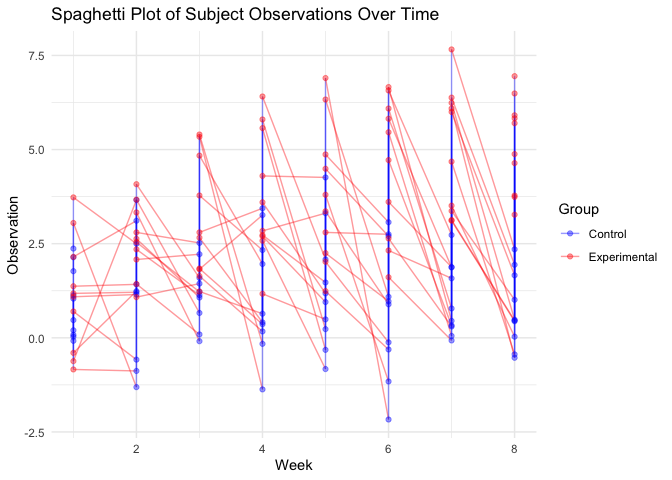
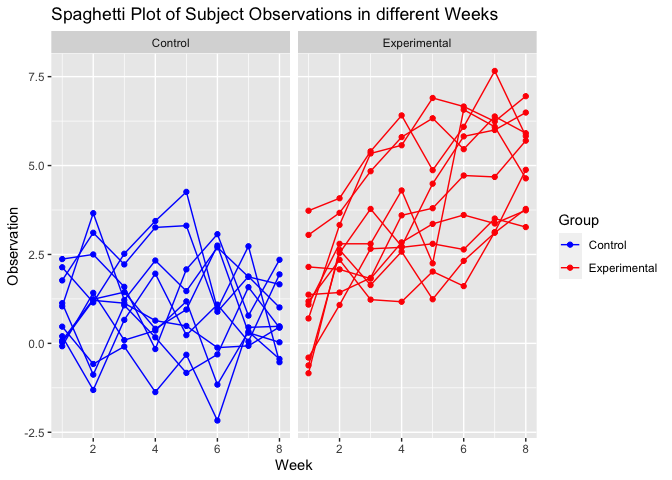
finished problem 3's graphs

diff --git a/p8105_hw5_qw2418.md b/p8105_hw5_qw2418.md
@@ -105,11 +105,11 @@ head(combined_data)
 
 ``` r
 ## Draw the spaghetti plot
-ggplot(combined_data, aes(x = Week, y = Observation, group = `Subject ID`)) +
-  geom_line(aes(color = Arm), alpha = 0.4) +  # Add transparency to lines
-  geom_point(aes(color = Arm), alpha = 0.4) +
-  theme_minimal() +
-  labs(title = "Spaghetti Plot of Subject Observations Over Time",
+ggplot(combined_data, aes(x = Week, y = Observation, group = `Subject ID`, color = Arm)) +
+  geom_line() +
+  geom_point() +
+  facet_wrap(~ Arm, nrow = 1) + 
+  labs(title = "Spaghetti Plot of Subject Observations in different Weeks",
        x = "Week",
        y = "Observation",
        color = "Group") +
@@ -131,11 +131,10 @@ using α=0.05. Hint: to obtain the estimate and p-value, use broom::tidy
 to clean the output of t.test.
 
 ``` r
-set.seed(123)
 n <- 30
-sigma <- 5000
+sigma <- 5
 mu <- c(0, 1, 2, 3, 4, 5, 6)
-iteration <- 5
+iteration <- 5000
 alpha <- 0.05
 
 
@@ -154,7 +153,7 @@ stat_test <- function(n, sigma, mu, iteration, alpha){
     mu_hat_list <- c(mu_hat_list, mu_hat)
     
     # store the rej_est_list with all the estimates that are rejected
-    if (mu_hat < alpha ){
+    if (pvalue < alpha ){
       rej_est <- clean$estimate
       rej_est_list <- c(rej_est_list, rej_est)
     }
@@ -162,12 +161,9 @@ stat_test <- function(n, sigma, mu, iteration, alpha){
   }
   power <- mean(pval_list < alpha)
   mean_estimate <- mean(mu_hat_list)
-  if (length(rej_est_list) > 0){
-    mean_est_rej <- mean(rej_est_list)
-    # If nothing is rejected, the Value should be defined
-  } else{
-    mean_est_rej <- NA
-  }
+  mean_est_rej <- mean(rej_est_list)
+
+
   
   return(c(power, mean_estimate, mean_est_rej))
 }
@@ -188,16 +184,62 @@ for (i in mu){
 power
 ```
 
-    ## [1] 0.0 0.2 0.0 0.0 0.0 0.0 0.0
+    ## [1] 0.0508 0.1932 0.5470 0.8884 0.9886 0.9994 1.0000
 
 ``` r
 mean_estimate
 ```
 
-    ## [1] -121.8144  467.2284 -228.0841  324.1776 -140.8335  315.8972  227.5181
+    ## [1] -0.003775532  1.015164084  1.954656859  2.998345525  4.031908410
+    ## [6]  5.018154718  6.015448294
 
 ``` r
 mean_est_rej
 ```
 
-    ## [1]  -540.9551  -447.2489  -909.3908  -953.5804  -880.4306 -1459.5199  -868.5539
+    ## [1] -0.2860503  2.2646871  2.5857994  3.1877964  4.0587429  5.0201287  6.0154483
+
+Make a plot showing the proportion of times the null was rejected (the
+power of the test) on the y axis and the true value of μ on the x axis.
+Describe the association between effect size and power.
+
+``` r
+df <- data.frame(mu = mu, power = power, mean_estimate = mean_estimate, mean_est_rej = mean_est_rej)
+df
+```
+
+    ##   mu  power mean_estimate mean_est_rej
+    ## 1  0 0.0508  -0.003775532   -0.2860503
+    ## 2  1 0.1932   1.015164084    2.2646871
+    ## 3  2 0.5470   1.954656859    2.5857994
+    ## 4  3 0.8884   2.998345525    3.1877964
+    ## 5  4 0.9886   4.031908410    4.0587429
+    ## 6  5 0.9994   5.018154718    5.0201287
+    ## 7  6 1.0000   6.015448294    6.0154483
+
+``` r
+ggplot(df, aes(x = mu, y = power)) +
+  geom_point() +
+  geom_line() +
+  labs(title = "Power vs True Value of μ", x = "True Value of μ", y = "Power")
+```
+
+![](p8105_hw5_qw2418_files/figure-gfm/unnamed-chunk-3-1.png)<!-- -->
+
+Make a plot showing the average estimate of μ̂ on the y axis and the true
+value of μ on the x axis. Make a second plot (or overlay on the first)
+the average estimate of μ̂ only in samples for which the null was
+rejected on the y axis and the true value of μ on the x axis. Is the
+sample average of μ̂ across tests for which the null is rejected
+approximately equal to the true value of μ? Why or why not?
+
+``` r
+ggplot(df) +
+  geom_point(aes(x = mu, y = mean_estimate), color = 'blue') +
+  geom_line(aes(x = mu, y = mean_estimate), color = 'blue') +
+  geom_point(aes(x = mu, y = mean_est_rej), color = 'red') +
+  geom_line(aes(x = mu, y = mean_est_rej), color = 'red', linetype = "dashed") +
+  labs(title = "Average Estimate of μ̂ vs True Value of μ", x = "True Value of μ", y = "Average Estimate of μ̂")
+```
+
+![](p8105_hw5_qw2418_files/figure-gfm/unnamed-chunk-4-1.png)<!-- -->
